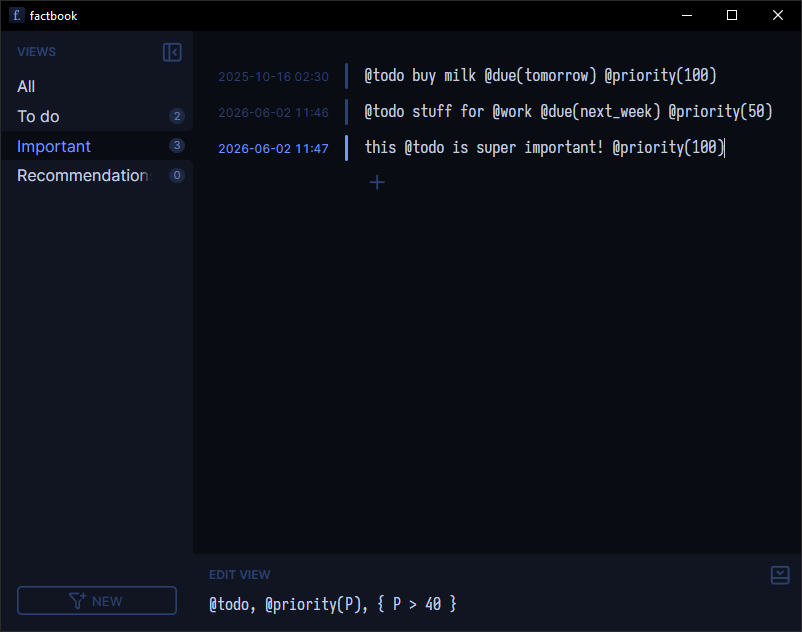
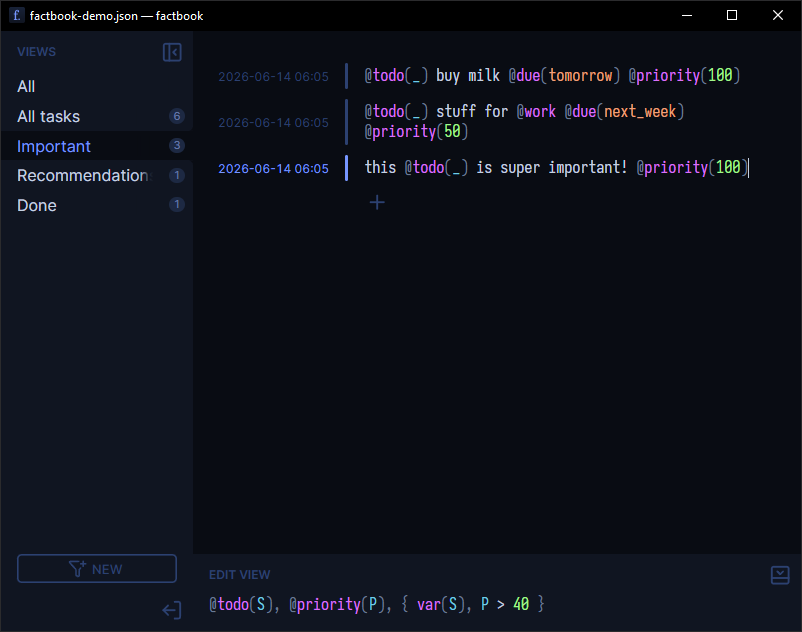
add view syntax highlighting (#54)
closes #12 

- [x] Consider using Lezer after all to make it more permissive

diff --git a/src/language/viewLanguage.js b/src/language/viewLanguage.js
@@ -1,0 +1,46 @@
+import {
+  LRLanguage,
+  HighlightStyle,
+  syntaxHighlighting,
+} from "@codemirror/language";
+import { parser } from "./viewParser.gen";
+import { styleTags, tags as t } from "@lezer/highlight";
+
+const viewHighlight = styleTags({
+  Comment: t.comment,
+  Operator: t.operator,
+  "Ident Quoted": t.atom,
+  "Args/Ident Args/Quoted": t.function(t.atom),
+  Variable: t.variableName,
+  Number: t.number,
+  String: t.string,
+  "@": t.punctuation,
+  ", ;": t.separator,
+  "( )": t.paren,
+  "[ ]": t.squareBracket,
+  "{ }": t.brace,
+});
+
+const viewHighlightStyle = HighlightStyle.define([
+  { tag: t.comment, class: "cm-highlight-comment" },
+  { tag: t.punctuation, class: "cm-highlight-punctuation" },
+  { tag: t.atom, class: "cm-highlight-ident" },
+  {
+    tag: t.function(t.atom),
+    class: "cm-highlight-argument cm-highlight-ident",
+  },
+  { tag: t.variableName, class: "cm-highlight-variable" },
+  { tag: t.number, class: "cm-highlight-number" },
+  { tag: t.string, class: "cm-highlight-string" },
+]);
+
+const viewLanguage = LRLanguage.define({
+  parser: parser.configure({
+    props: [viewHighlight],
+  }),
+});
+
+export const viewLanguageExtension = [
+  viewLanguage,
+  syntaxHighlighting(viewHighlightStyle),
+];

diff --git a/src/components/CodeEditor.jsx b/src/components/CodeEditor.jsx
@@ -20,7 +20,9 @@ import { Decoration } from "@codemirror/view";
  *   Called at the trailing edge of a timeout and on cleanup if there are
  *   pending changes
  * @param {number} props.debounce The debounce timeout for `onChangeDeferred`
- * @param {Span[]} props.spans
+ * @param {Span[]} props.spans Explicitly highlighted spans
+ * @param {import("@codemirror/state").Extension} props.extension
+ *   Additional extension
  */
 export default function CodeEditor(props) {
   // This is the value read back from CodeMirror, not updated with the prop
@@ -28,7 +30,7 @@ export default function CodeEditor(props) {
   // Track dirty flag explicitly to be able to conditionally call the deferred
   // callback on cleanup. We don't actually test content for equality, but that's fine
   let dirty = false;
-  let initialTokenUpdateDone = false;
+  let incomingValueJustChanged = true;
 
   const spans = () => props.spans ?? [];
 
@@ -56,12 +58,13 @@ export default function CodeEditor(props) {
 
   const { ref, editorView, createExtension } = createCodeMirror({
     onValueChange(value) {
-      setValue(value);
-
-      if (!initialTokenUpdateDone) {
+      if (incomingValueJustChanged) {
+        incomingValueJustChanged = false;
         editorView()?.dispatch({ effects: updateSpans.of(spans()) });
-        initialTokenUpdateDone = true;
+        return;
       }
+
+      setValue(value);
     },
   });
 
@@ -69,7 +72,11 @@ export default function CodeEditor(props) {
   const [incomingValue, setIncomingValue] = createSignal(props.value);
   createEffect(() => {
     const value = props.value;
-    if (!editorView()?.hasFocus) setIncomingValue(value);
+
+    if (!editorView()?.hasFocus) {
+      incomingValueJustChanged = true;
+      setIncomingValue(value);
+    }
   });
 
   createEditorControlledValue(editorView, incomingValue);
@@ -92,6 +99,8 @@ export default function CodeEditor(props) {
     ),
   );
 
+  createExtension(() => props.extension);
+
   return <div ref={ref} class={`${styles.editor} ${props.class}`} />;
 }
 
@@ -110,12 +119,14 @@ const spanHighlight = StateField.define({
     for (const effect of transaction.effects) {
       if (effect.is(updateSpans)) {
         decorations = Decoration.set(
-          effect.value.map(({ kind, start, len }) =>
-            Decoration.mark({ class: `cm-highlight-${kind}` }).range(
-              start,
-              start + len,
+          effect.value
+            .filter(({ start, len }) => start + len <= docLength)
+            .map(({ kind, start, len }) =>
+              Decoration.mark({ class: `cm-highlight-${kind}` }).range(
+                start,
+                start + len,
+              ),
             ),
-          ),
         );
       }
     }

diff --git a/src/language/viewParser.gen.js b/src/language/viewParser.gen.js
@@ -1,0 +1,16 @@
+// This file was generated by lezer-generator. You probably shouldn't edit it.
+import {LRParser} from "@lezer/lr"
+export const parser = LRParser.deserialize({
+  version: 14,
+  states: "%|OYQPOOOOQO'#Cx'#CxOYQPO'#CcOYQPO'#CfO!oQPO'#CiO!vQPO'#CyOOQO'#Cy'#CyO#eQPO'#CwOfQPO'#CwQOQPOOO#|QPO,58}O$RQPO,59QO$WQPO'#CzOfQPO'#CzO$fQPO'#CkOOQO,59T,59TO$qQPO,59TO$vQPO,59XOYQPO,59cO$}QPO,59cOOQO1G.i1G.iOOQO1G.l1G.lO!QQPO,59fO%fQPO,59fO!QQPO'#CsO%tQPO,59VOOQO1G.o1G.oOOQO1G.s1G.sO&PQPO1G.sOOQO1G.}1G.}OYQPO1G.}OOQO1G/Q1G/QO!QQPO1G/QOOQO,59_,59_OOQO-E6q-E6qOOQO7+$_7+$_OOQO7+$i7+$iOOQO7+$l7+$l",
+  stateData: "&X~OjOSPOS~ORPOSPOTPOUPOWQOZRO^SObTOcTOdUOeUOfUO~OU]OWQOZRO^SObTOcTOdUOeUOfUO~O`_O~P!QOWaORmXSmXTmXUmXhmXXmX[mX`mX~ORPOSPOTPOUPOhkXXkX[kX~OXdO~O[eO~OUfOSnX`nXXnX~OShO`_XX_X~O`jO~OXkO~P!QORPOSPOTPOUPOhkaXka[ka~OUpOSna`naXna~OShO`_aX_a~OXsO~OUR~",
+  goto: "#koPPPPPPPpPPpPPpP!OPpPPPPP!UPPP![!k!x#^iUOQRSW]abfhnpQ`SRlaQi^RriQXOQYQQZRQmbRtnYWOQRbnQbVRncYVOQRbnY[SafhpQcWRg]S^SaQofQqhRup",
+  nodeNames: "⚠ Comment Program @ , ; Operator Parens ( ) Curly { } List [ Args ] Compound Ident Quoted Number String Variable",
+  maxTerm: 30,
+  skippedNodes: [0,1],
+  repeatNodeCount: 1,
+  tokenData: "-`~RzX^#upq#uqr$jrs%tst$jtu$juv'mvw$jwx(Uxy)}yz*Sz{$j{|$j|}*X}!O$j!O!P$j!P!Q$j!Q![*^![!]$j!]!^*w!^!_$j!_!`$j!`!a$j!b!c*|!c!},W!}#O,i#O#P$j#P#Q,n#Q#R$j#R#S,W#T#o,s#o#p-U#p#q$j#q#r-Z#y#z#u$f$g#u#BY#BZ#u$IS$I_#u$I|$JO#u$JT$JU#u$KV$KW#u&FU&FV#u~#zYj~X^#upq#u#y#z#u$f$g#u#BY#BZ#u$IS$I_#u$I|$JO#u$JT$JU#u$KV$KW#u&FU&FV#u~$oaU~qr$jst$jtu$jvw$jz{$j{|$j}!O$j!O!P$j!P!Q$j![!]$j!^!_$j!_!`$j!`!a$j!b!c$j#O#P$j#Q#R$j#p#q$j~%wVOr%trs&^s#O%t#O#P&c#P;'S%t;'S;=`'g<%lO%t~&cOe~~&fVOr%trs&{s#O%t#O#P&c#P;'S%t;'S;=`'g<%lO%t~'QVe~Or%trs&^s#O%t#O#P&c#P;'S%t;'S;=`'g<%lO%t~'jP;=`<%l%t~'rSP~OY'mZ;'S'm;'S;=`(O<%lO'm~(RP;=`<%l'm~(XVOw(Uwx(nx#O(U#O#P(s#P;'S(U;'S;=`)w<%lO(U~(sOc~~(vVOw(Uwx)]x#O(U#O#P(s#P;'S(U;'S;=`)w<%lO(U~)bVc~Ow(Uwx(nx#O(U#O#P(s#P;'S(U;'S;=`)w<%lO(U~)zP;=`<%l(U~*SOW~~*XOX~~*^OS~~*cQd~!O!P*i!Q![*^~*lP!Q![*o~*tPd~!Q![*o~*|OT~~+RaR~qr$jst$jtu$jvw$jz{$j{|$j}!O$j!O!P$j!P!Q$j![!]$j!^!_$j!_!`$j!`!a$j!b!c$j#O#P$j#Q#R$j#p#q$j~,]Sf~!Q![,W!c!},W#R#S,W#T#o,W~,nO^~~,sO`~~,xSb~!Q![,s!c!},s#R#S,s#T#o,s~-ZOZ~~-`O[~",
+  tokenizers: [0],
+  topRules: {"Program":[0,2]},
+  tokenPrec: 236
+})

diff --git a/src/styles/CodeEditor.module.css b/src/styles/CodeEditor.module.css
@@ -18,7 +18,8 @@
   padding: 0;
 }
 
-.editor :global(.cm-highlight-punctuation) {
+.editor :global(.cm-highlight-punctuation),
+.editor :global(.cm-highlight-comment) {
   color: var(--theme-foreground-muted);
 }
 
@@ -27,7 +28,8 @@
 }
 
 .editor :global(.cm-highlight-argument) :global(.cm-highlight-ident),
-.editor :global(.cm-highlight-ident) :global(.cm-highlight-argument) {
+.editor :global(.cm-highlight-ident) :global(.cm-highlight-argument),
+.editor :global(.cm-highlight-argument.cm-highlight-ident) {
   color: var(--theme-highlight-2);
 }
 

diff --git a/src/components/ViewEditor.jsx b/src/components/ViewEditor.jsx
@@ -1,10 +1,12 @@
 import CodeEditor from "@/components/CodeEditor";
+import { viewLanguageExtension } from "@/language/viewLanguage";
 
 export default function ViewEditor(props) {
   return (
     <CodeEditor
       value={props.definition}
       onChangeDeferred={props.onDefinitionChange}
+      extension={viewLanguageExtension}
     />
   );
 }

diff --git a/factbook-core/src/lang.rs b/factbook-core/src/lang.rs
@@ -1,6 +1,10 @@
+//! Parser for the entry language
+//!
+//! Only used to extract spans for syntax highlighting and tag spans which are
+//! extracted and passed to Prolog to be properly parsed into terms.
+
 use factbook_swipl::term::Term;
 use factbook_swipl::{Context, Engine};
-use itertools::Itertools;
 use pest::Parser;
 use pest_derive::Parser;
 use serde::Serialize;
@@ -14,6 +18,7 @@ pub struct ParseResult<'c> {
     pub spans: Vec<Span>,
 }
 
+/// Span of entry content with an attached semantic tag
 #[derive(Debug, Clone, Copy, PartialEq, Eq, Serialize)]
 #[serde(rename_all = "camelCase")]
 pub struct Span {
@@ -38,7 +43,11 @@ pub enum SpanKind {
 }
 
 impl Span {
-    fn from_pair(kind: SpanKind, pair: &pest::iterators::Pair<Rule>, input: &str) -> Self {
+    fn from_pair<R: pest::RuleType>(
+        kind: SpanKind,
+        pair: &pest::iterators::Pair<R>,
+        input: &str,
+    ) -> Self {
         let mut char_indices = input
             .char_indices()
             .map(|(i, _)| Some(i))
@@ -70,15 +79,20 @@ pub fn parse<'c>(input: &str, ctx: Option<&'c impl Context>) -> ParseResult<'c> 
 
     // The parser should never fail, because it includes `Rule::text` which
     // matches arbitrary input
-    let top = EntryParser::parse(Rule::entry, input)
-        .unwrap()
-        .exactly_one()
-        .unwrap();
+    let top = EntryParser::parse(Rule::entry, input).unwrap();
 
-    assert_eq!(top.as_rule(), Rule::entry);
+    for pair in top.flatten() {
+        use SpanKind as S;
 
-    for pair in top.into_inner() {
-        match pair.as_rule() {
+        if let Some(kind) = match pair.as_node_tag() {
+            Some("functor") => Some(S::Functor),
+            Some("argument") => Some(S::Argument),
+            _ => None,
+        } {
+            spans.push(Span::from_pair(kind, &pair, input));
+        }
+
+        if let Some(kind) = match pair.as_rule() {
             Rule::tag => {
                 let [_, tag] = pair
                     .clone()
@@ -96,37 +110,22 @@ pub fn parse<'c>(input: &str, ctx: Option<&'c impl Context>) -> ParseResult<'c> 
                     tags.push(tag);
                 }
 
-                for pair in pair.into_inner().flatten() {
-                    use SpanKind as T;
-
-                    if let Some(kind) = match pair.as_node_tag() {
-                        Some("functor") => Some(T::Functor),
-                        Some("argument") => Some(T::Argument),
-                        _ => None,
-                    } {
-                        spans.push(Span::from_pair(kind, &pair, input));
-                    }
-
-                    if let Some(kind) = match pair.as_rule() {
-                        Rule::at
-                        | Rule::lparen
-                        | Rule::rparen
-                        | Rule::lbracket
-                        | Rule::rbracket
-                        | Rule::comma => Some(T::Punctuation),
-                        Rule::ident | Rule::quoted => Some(T::Ident),
-                        Rule::string => Some(T::String),
-                        Rule::number => Some(T::Number),
-                        Rule::variable => Some(T::Variable),
-                        Rule::operator | Rule::operator_ex => Some(T::Operator),
-                        _ => None,
-                    } {
-                        spans.push(Span::from_pair(kind, &pair, input));
-                    }
-                }
+                None
             },
-            Rule::EOI => (),
-            rule => panic!("parser returned unexpected rule: {rule:?}"),
+            Rule::at
+            | Rule::lparen
+            | Rule::rparen
+            | Rule::lsquare
+            | Rule::rsquare
+            | Rule::comma => Some(S::Punctuation),
+            Rule::ident | Rule::quoted => Some(S::Ident),
+            Rule::string => Some(S::String),
+            Rule::number => Some(S::Number),
+            Rule::variable => Some(S::Variable),
+            Rule::operator | Rule::operator_ex => Some(S::Operator),
+            _ => None,
+        } {
+            spans.push(Span::from_pair(kind, &pair, input));
         }
     }
 
@@ -140,16 +139,16 @@ mod test {
     use pretty_assertions::assert_eq;
     use test_log::test;
 
-    fn s(kind: S, start: usize, len: usize) -> Span {
-        Span { kind, start, len }
-    }
-
     fn parse(input: &str, ctx: &impl Context) -> (Vec<String>, Vec<Span>) {
         let result = super::parse(input, Some(ctx));
         (
             result.tags.into_iter().map(|t| t.to_string()).collect(),
             result.spans,
         )
+    }
+
+    fn s(kind: S, start: usize, len: usize) -> Span {
+        Span { kind, start, len }
     }
 
     #[test]

diff --git a/factbook-core/src/model.rs b/factbook-core/src/model.rs
@@ -42,6 +42,7 @@ pub struct View {
     pub name: String,
     pub definition: String,
     pub entry_count: usize,
+    pub spans: Option<Vec<Span>>,
 }
 
 #[derive(Serialize)]